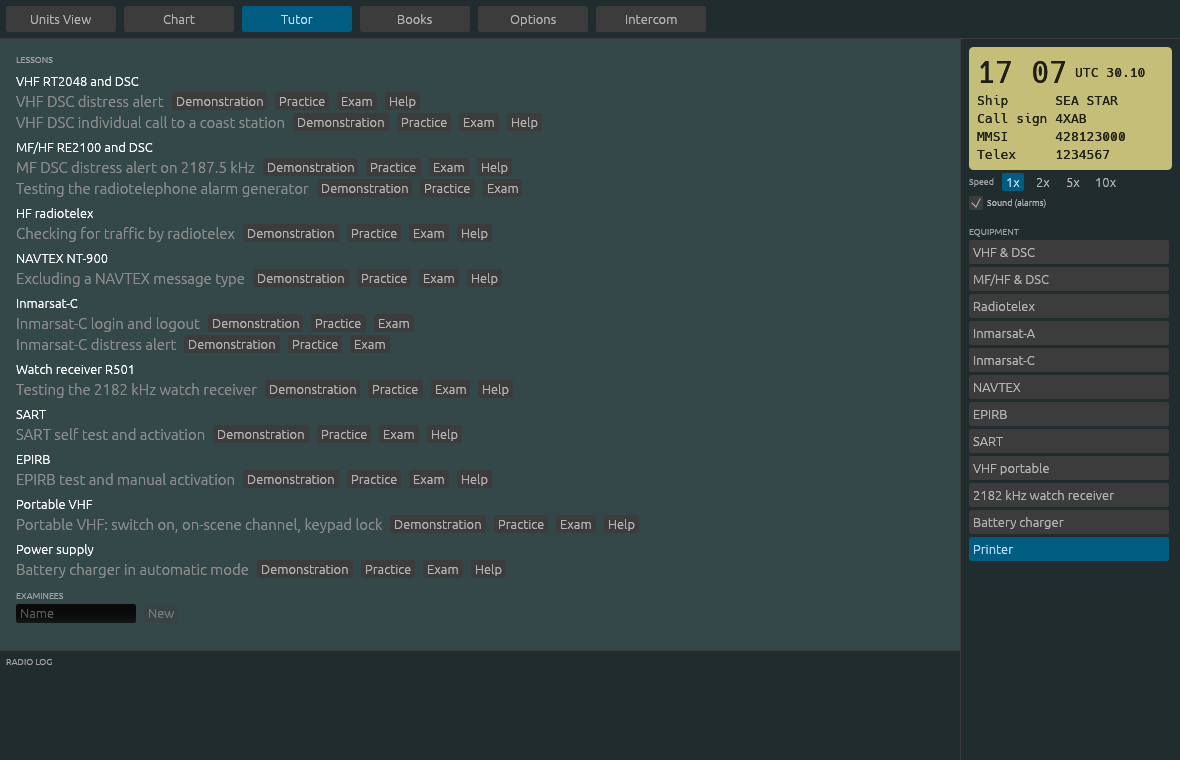
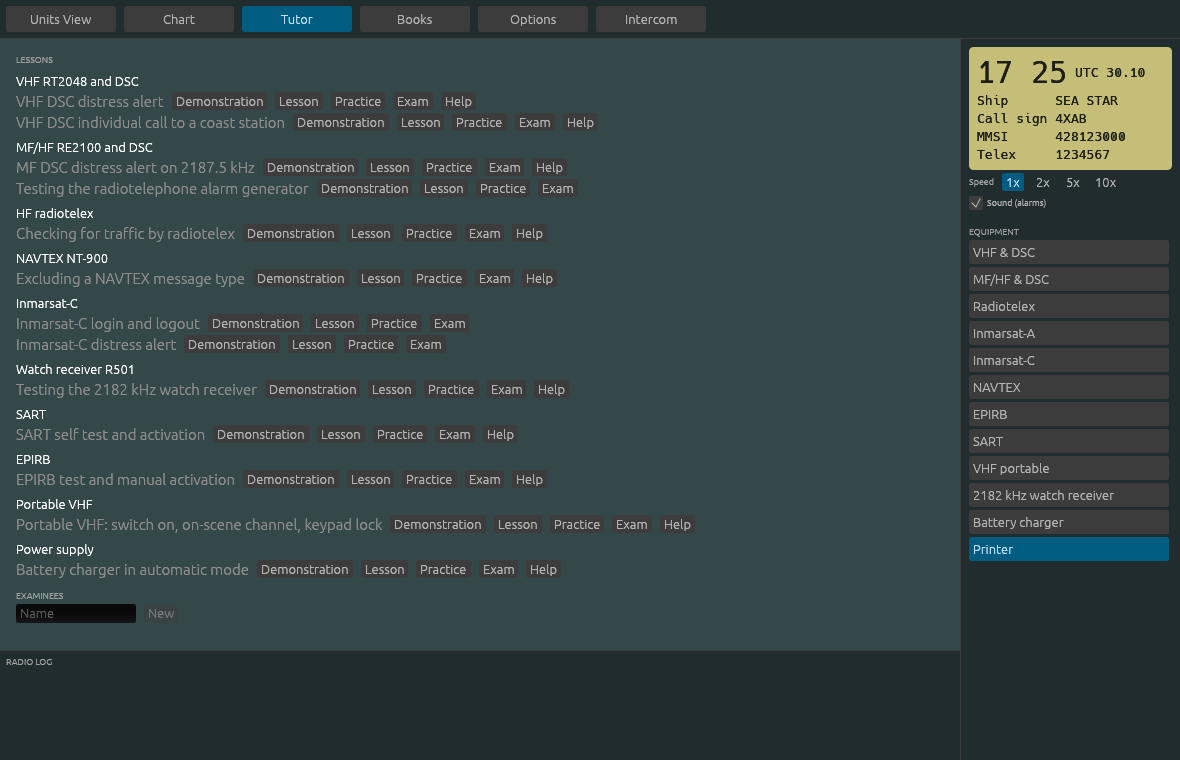
Lesson mode: a demonstration that waits after each action
As the original's lesson mode (17c2 = 2): each press, once released, and each key waits for
Next step.

diff --git a/src/script.rs b/src/script.rs
@@ -193,6 +193,9 @@ pub fn parse(text: &str) -> Result<Script, ParseError> {
 #[derive(Debug, Clone, Copy, PartialEq)]
 pub enum Mode {
     Demo,
+    /// A demonstration that waits after each action until the student goes on (`next_step`),
+    /// as the original's lesson mode.
+    Lesson,
     Practice,
     Exam,
 }
@@ -230,6 +233,8 @@ enum Wait {
     Msg(f64),
     Press(Vec<String>),
     Key(Key),
+    /// Lesson mode: the student is to go on.
+    Step,
     Done,
 }
 
@@ -256,6 +261,8 @@ pub struct Player {
     pub errors: u32,
     /// The actions the student was asked for (presses and keys).
     pub actions: u32,
+    /// Lesson mode: a control was pressed; wait when it is released.
+    step_after_release: bool,
 }
 
 /// Whether a finished lesson is passed, as the original scores it (TUTOR.CPP): an exam with at
@@ -270,7 +277,7 @@ pub fn passed(mode: Mode, completed: bool, errors: u32, actions: u32) -> bool {
 
 impl Player {
     pub fn new(script: Script, mode: Mode, now: f64) -> Player {
-        Player { script, mode, pc: 0, wait: Wait::Run, started: now, deadline: None, in_init: false, pointed: String::new(), var: String::new(), passed: HashMap::new(), alternatives: vec![], timers: vec![], errors: 0, actions: 0 }
+        Player { script, mode, pc: 0, wait: Wait::Run, started: now, deadline: None, in_init: false, pointed: String::new(), var: String::new(), passed: HashMap::new(), alternatives: vec![], timers: vec![], errors: 0, actions: 0, step_after_release: false }
     }
 
     pub fn title(&self) -> &str {
@@ -287,7 +294,28 @@ impl Player {
     }
 
     fn student_acts(&self) -> bool {
-        self.mode != Mode::Demo && !self.in_init
+        !matches!(self.mode, Mode::Demo | Mode::Lesson) && !self.in_init
+    }
+
+    /// Lesson mode: waiting for the student to go on.
+    pub fn at_step(&self) -> bool {
+        self.wait == Wait::Step
+    }
+
+    /// Lesson mode: goes on to the next action.
+    pub fn next_step(&mut self, now: f64) -> Vec<Out> {
+        if self.wait != Wait::Step {
+            return vec![];
+        }
+        self.wait = Wait::Run;
+        self.tick(now)
+    }
+
+    /// Lesson mode, after a demonstrated action: wait for the student.
+    fn step_wait(&mut self) {
+        if self.mode == Mode::Lesson && !self.in_init {
+            self.wait = Wait::Step;
+        }
     }
 
     fn jump(&mut self, label: &str) {
@@ -355,7 +383,12 @@ impl Player {
                 self.press(x, student, out);
             }
             Cmd::MoveAndPress(x) => self.press(x, student, out),
-            Cmd::Release if !student => out.push(Out::Release),
+            Cmd::Release if !student => {
+                out.push(Out::Release);
+                if std::mem::take(&mut self.step_after_release) {
+                    self.step_wait();
+                }
+            }
             Cmd::Release | Cmd::MoveXy(..) | Cmd::Error => {}
             Cmd::Kbd(k) => {
                 if student {
@@ -363,6 +396,7 @@ impl Player {
                     self.wait = Wait::Key(k);
                 } else {
                     out.push(Out::Key(k));
+                    self.step_wait();
                 }
             }
             Cmd::Alt => {
@@ -372,6 +406,7 @@ impl Player {
                     self.wait = Wait::Key(k);
                 } else {
                     out.push(Out::Key(k));
+                    self.step_wait();
                 }
             }
             Cmd::Msg { secs, x, y, text, task } => {
@@ -434,6 +469,7 @@ impl Player {
             self.wait = Wait::Press(x.split('+').map(str::to_string).collect());
         } else {
             out.push(Out::Press(x));
+            self.step_after_release = self.mode == Mode::Lesson;
         }
     }
 
@@ -538,6 +574,18 @@ mod tests {
         assert_eq!(p.tick(2.0), [Out::CloseMsg, Out::Msg { text: "Press the red 16 key.".into(), x: 0, y: 0 }]);
         assert_eq!(p.tick(5.0), [Out::CloseMsg, Out::Press("VHF.16".into())]);
         assert_eq!(p.tick(5.3), [Out::Release, Out::Finished { completed: true, errors: 0, secs: 5.3 }]);
+    }
+
+    #[test]
+    fn lesson_waits_after_each_action() {
+        let mut p = Player::new(parse(LESSON).unwrap(), Mode::Lesson, 0.0);
+        p.tick(0.0);
+        p.tick(2.0);
+        assert_eq!(p.tick(5.0), [Out::CloseMsg, Out::Press("VHF.16".into())]);
+        assert_eq!(p.tick(5.3), [Out::Release]);
+        assert!(p.at_step());
+        assert_eq!(p.tick(60.0), []);
+        assert_eq!(p.next_step(61.0), [Out::Finished { completed: true, errors: 0, secs: 61.0 }]);
     }
 
     #[test]

diff --git a/app/src/tutor_page.rs b/app/src/tutor_page.rs
@@ -1,6 +1,6 @@
 //! Tutor: lessons in the original tutor's script structure (`gmdss::script`). Demonstration plays
-//! the lesson on the equipment, practice lets the student do it with the messages shown, the exam
-//! is timed and shows only the tasks.
+//! the lesson on the equipment, lesson plays it one action at a time, practice lets the student do
+//! it with the messages shown, the exam is timed and shows only the tasks.
 
 use crate::panel::bus;
 use eframe::egui::{self, Color32, RichText};
@@ -366,7 +366,7 @@ impl Tutor {
         let typed = keys(ctx);
         self.record(now, &used, &typed);
         let Some(run) = &mut self.run else { return };
-        if run.player.mode == Mode::Demo || run.player.finished() {
+        if matches!(run.player.mode, Mode::Demo | Mode::Lesson) || run.player.finished() {
             return;
         }
         let mut inputs: Vec<Input> = used.into_iter().map(Input::Press).collect();
@@ -412,12 +412,13 @@ impl Tutor {
                 Out::Finished { completed, errors, secs } => {
                     let mode = match run.player.mode {
                         Mode::Demo => "demonstration",
+                        Mode::Lesson => "lesson",
                         Mode::Practice => "practice",
                         Mode::Exam => "exam",
                     };
                     let how = if completed { "completed" } else { "time is up" };
                     let ok = script::passed(run.player.mode, completed, errors, run.player.actions);
-                    let verdict = if run.player.mode == Mode::Demo { "" } else if ok { ", passed" } else { ", not passed" };
+                    let verdict = if matches!(run.player.mode, Mode::Demo | Mode::Lesson) { "" } else if ok { ", passed" } else { ", not passed" };
                     self.results.push(format!("{}: {mode} {how}, {errors} errors, {:.1} min{verdict}", run.player.title(), secs / 60.0));
                     if let Some(e) = run.examinee.and_then(|k| self.examinees.get_mut(k)) {
                         let r = e.rows.entry(run.player.title().to_string()).or_default();
@@ -446,14 +447,18 @@ impl Tutor {
     pub fn strip(&mut self, ui: &mut egui::Ui, now: f64) {
         let Some(run) = &mut self.run else { return };
         let mut stop = false;
+        let mut step = false;
         egui::Frame::new().fill(Color32::from_rgb(60, 50, 20)).inner_margin(6).show(ui, |ui| {
             ui.horizontal_wrapped(|ui| {
                 ui.label(RichText::new(run.player.title()).strong().color(Color32::from_rgb(255, 220, 120)));
                 if let Some(left) = run.player.time_left(now) {
                     ui.label(RichText::new(format!("{:02}:{:02}", left as u32 / 60, left as u32 % 60)).monospace().color(Color32::WHITE));
                 }
-                if run.player.mode != Mode::Demo {
+                if !matches!(run.player.mode, Mode::Demo | Mode::Lesson) {
                     ui.label(RichText::new(format!("errors {}", run.player.errors)).color(Color32::LIGHT_GRAY));
+                }
+                if run.player.at_step() && ui.button("Next step").clicked() {
+                    step = true;
                 }
                 let task = if run.player.finished() { "Finished - see the results on the Tutor page" } else { run.task.as_str() };
                 ui.label(RichText::new(task).color(Color32::WHITE));
@@ -482,6 +487,10 @@ impl Tutor {
         if stop {
             self.run = None;
             bus(ui.ctx(), |b| *b = Default::default());
+        }
+        if step {
+            let outs = self.run.as_mut().map(|r| r.player.next_step(now)).unwrap_or_default();
+            self.apply(ui.ctx(), outs);
         }
     }
 
@@ -569,7 +578,7 @@ impl Tutor {
             let Some(i) = self.lessons.iter().position(|l| l.title == e.title) else { continue };
             ui.horizontal(|ui| {
                 ui.label(RichText::new(&e.title).size(15.0));
-                for (label, mode) in [("Demonstration", Mode::Demo), ("Practice", Mode::Practice), ("Exam", Mode::Exam)] {
+                for (label, mode) in [("Demonstration", Mode::Demo), ("Lesson", Mode::Lesson), ("Practice", Mode::Practice), ("Exam", Mode::Exam)] {
                     if ui.button(label).clicked() {
                         start = Some((i, mode));
                     }
